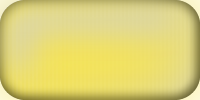
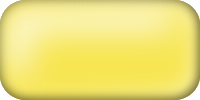
Probably fixed main-story bug

diff --git a/app/assets/stylesheets/home.css.scss b/app/assets/stylesheets/home.css.scss
@@ -13,9 +13,29 @@ body.home {
 		.story {
 			width: 400px;
 			height: 600px;
-			margin-top: 26px;
-			margin-left: 45px;
+			padding-top: 26px;
+			padding-left: 45px;
 			float: left;
+		}
+		
+		.promote {
+			width: 100%;
+			height: 150px;
+			margin-left: auto;
+			margin-right: auto;
+			
+			.button {
+				width: 100px;
+				height: 100px;
+				color: #333;
+				text-align: center;
+				
+				background: url("home/try-out_button.png");
+				background-repeat: no-repeat;
+				background-position: center top;
+			
+				&:link { text-decoration: none; }
+			}
 		}
 	}
 	

diff --git a/app/assets/stylesheets/_main_catagories.css.scss b/app/assets/stylesheets/_main_catagories.css.scss
@@ -10,6 +10,8 @@ body {
 		margin-bottom: 20px;
 		float: left;
 		background-color: #B4B4B4;
+		opacity: 0.85;
+		filter:alpha(opacity = 85);
 		
 		.story {
 			
@@ -20,7 +22,6 @@ body {
 			padding-right: 14px;
 			padding-bottom: 10px;
 			float: left;
-			
 		}
 	}
 	
